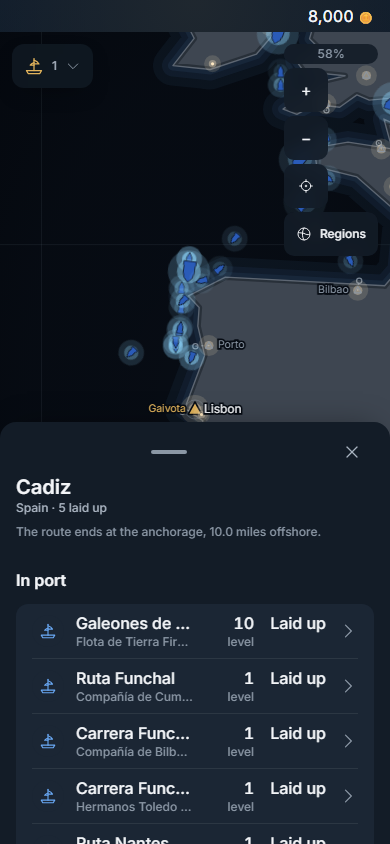
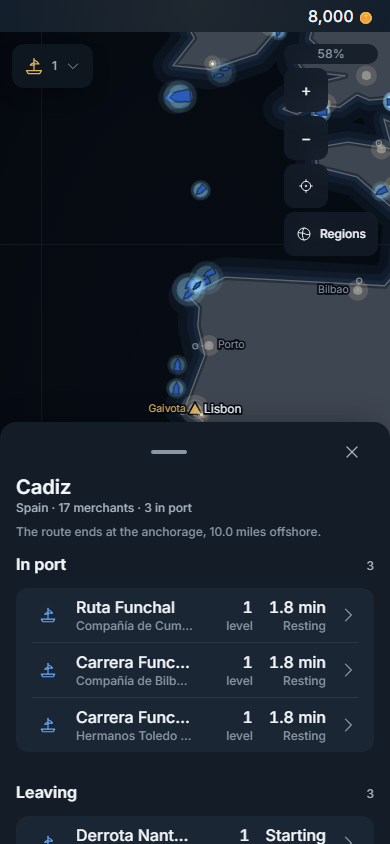
City tray: the gate counts and the four tray shots
map.merchants + port.merchants on vite preview :4193 (localhost, one
worker): 17 passed, 0 failed, 0 skipped. Shots at 390 (a city with
merchants in port; a city whose merchants are all at sea) and 1440.

diff --git a/docs/DEV_LOG.md b/docs/DEV_LOG.md
@@ -37,8 +37,9 @@ Owner, on the live game: *"i press a city and i see no ship info. Why did this r
   shot. `tests/port.merchants.spec.ts` is untouched: PORT never filtered.
 - **Gates.** `npx tsc -b` clean · `npx eslint .` clean · pure guards `words` / `sections` /
   `duplication` 19 passed · `npm run build` green (the world image for chain 110 was built here, no
-  cache for it existed on this machine). Browser, against `vite preview --port 4193`: filled in
-  below once run.
+  cache for it existed on this machine). Browser, against `vite preview --port 4193`
+  (`localhost`, one worker): `map.merchants` + `port.merchants` — **17 passed, 0 failed, 0
+  skipped** (18.6 min, the merchants-on fixture built cold inside it).
 - Shots, looked at: `docs/npc-traders/city-tray-half-390.png`, `city-tray-at-sea-390.png`,
   `city-tray-half-1440.png`, `city-tray-merchant-from-list-390.png`.
 
